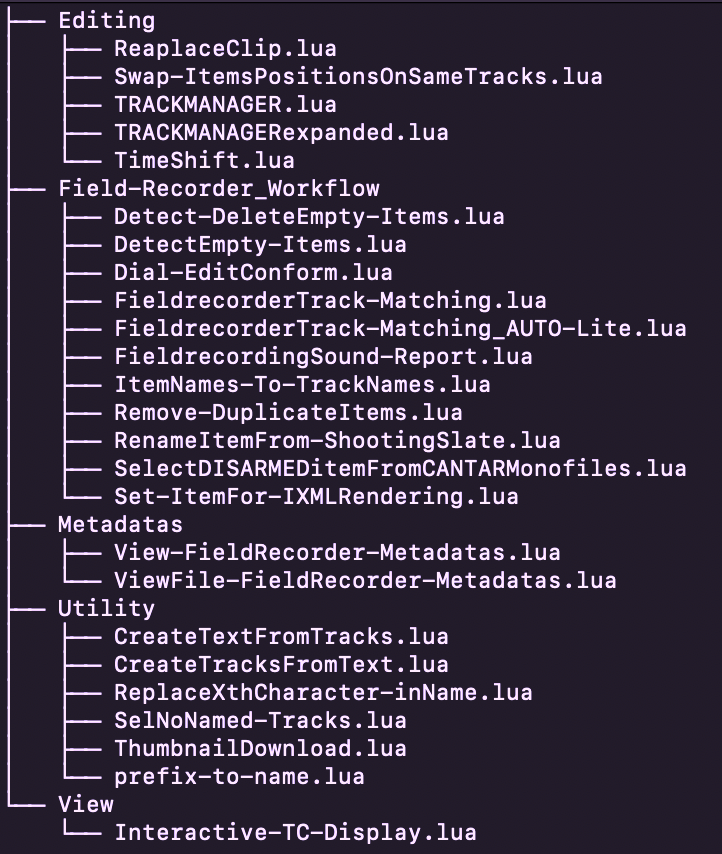
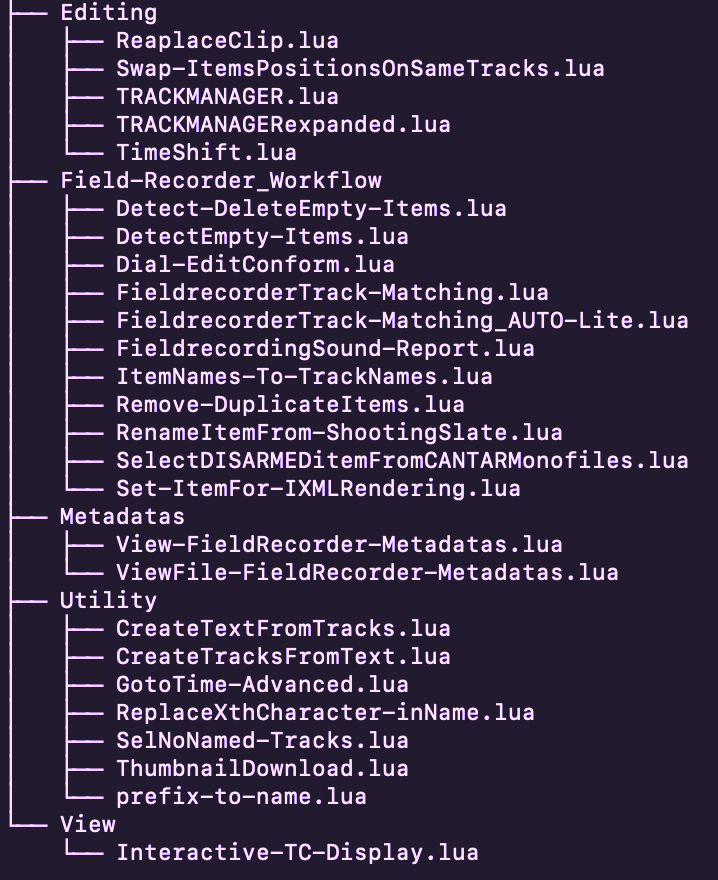
ADD GotoTime-Advanced

Changed region(s): [[0.0, 0.0, 0.9805, 1.0]]

diff --git a/README.md b/README.md
@@ -340,6 +340,32 @@ Batch Re-naming selected Items with a prefix for a better Workflow and sorting
   2 Action list / ReplaceXthCharacter  
   3 Enter Character to replace  
   4 Enter New Character  
+  
+  ---
+  ## 5. **GotoTime-Advanced**
+  (https://github.com/Geeksound/Reaper_Scripts-Mariow/blob/main/Utility/GotoTime-Advanced.lua)  
+  ImGui-based time navigator for REAPER (25fps) with large counter, H:M:S:F sliders, presets, offset, cursor display, and optional time selection.
+  
+  <p align="center">
+    <img src="PICTURES/GotoTime-Advanced.png" alt="Overview of 'GotoTime-Advanced'" width="800" />
+  </p>   
+  
+  ## FEATURES
+  - Large centered time counter  
+  - Sliders for Hours, Minutes, Seconds, Frames  
+  - Go / Play buttons with optional Time Selection  
+  - Presets (1h / 10h)  
+  - Offset control (0–30s)  
+  - Display current cursor position  
+  
+  ## HOW TO USE
+  1. Open REAPER and select your project.  
+  2. Run the script from the Action List: `GotoTime-Advanced`.  
+  3. Use sliders to set the desired time (H:M:S:F).  
+  4. Adjust offset if needed.  
+  5. Press **Go** to move the edit cursor, or **Play** to start playback.  
+  6. Optionally, check **Make Time Selection** to create a time selection from cursor to target time.  
+
  
 
 -------------------------------------------------
